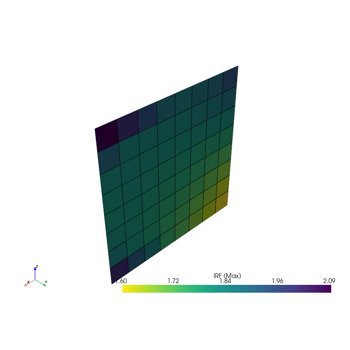
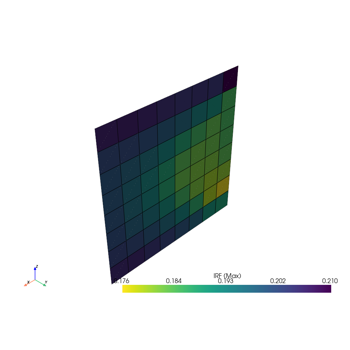
Minor tweaks to PyMechanical workflow examples (#712)
- Add note about why the PyMechanical shell workflow and PyMechanical to CDB workflow results are not exactly equal
- Remove TODO about material import; I think the current example code is ok
- Add some comments to Mechanical code
- Make values in CDB to PyMechanical example more reasonable

Checked manually that the results match with an equivalent workflow set up in WB.

Closes #703.

diff --git a/examples/workflows/03-pymechanical-shell-workflow.py b/examples/workflows/03-pymechanical-shell-workflow.py
@@ -105,6 +105,7 @@ mechanical.run_python_script(
     # This script runs in the Mechanical Python environment, which uses IronPython 2.7.
     textwrap.dedent(
         f"""\
+        # Import the geometry
         geometry_import = Model.GeometryImportGroup.AddGeometryImport()
 
         import_format = Ansys.Mechanical.DataModel.Enums.GeometryImportPreference.Format.Automatic
@@ -119,6 +120,8 @@ mechanical.run_python_script(
             import_preferences
         )
 
+        # The thickness will be overridden by the ACP model, but is required
+        # for the model to be valid.
         for body in Model.Geometry.GetChildren(
             Ansys.Mechanical.DataModel.Enums.DataModelObjectCategory.Body, True
         ):
@@ -138,7 +141,7 @@ pyacp.mechanical_integration_helpers.export_mesh_for_acp(mechanical=mechanical, 
 # definition file to output_path.
 
 composite_definitions_h5 = "ACPCompositeDefinitions.h5"
-matml_file = "materials.xml"  # TODO: load an example materials XML file instead of defining the materials in ACP
+matml_file = "materials.xml"
 
 
 model = acp.import_model(mesh_path, format="ansys:h5")

diff --git a/examples/workflows/06-cdb-to-pymechanical-workflow.py b/examples/workflows/06-cdb-to-pymechanical-workflow.py
@@ -91,6 +91,7 @@ input_file = example_helpers.get_example_file(
 
 
 model = acp.import_model(path=input_file, format="ansys:cdb")
+model.unit_system
 
 # %%
 # Visualize the loaded mesh.
@@ -130,7 +131,7 @@ ud_material = model.create_material(
     strain_limits=strain_limits,
 )
 
-fabric = model.create_fabric(name="UD", material=ud_material, thickness=0.1)
+fabric = model.create_fabric(name="UD", material=ud_material, thickness=1e-4)
 
 
 # %%
@@ -259,7 +260,7 @@ mechanical.run_python_script(
 
         force = analysis.AddForce()
         force.DefineBy = LoadDefineBy.Components
-        force.XComponent.Output.SetDiscreteValue(0, Quantity(1e6, "N"))
+        force.XComponent.Output.SetDiscreteValue(0, Quantity(100, "N"))
         force.Location = front_edge
 
         analysis.Solution.Solve(True)

diff --git a/examples/workflows/05-pymechanical-to-cdb-workflow.py b/examples/workflows/05-pymechanical-to-cdb-workflow.py
@@ -123,6 +123,8 @@ mechanical.run_python_script(
         ):
             body.Thickness = Quantity(1e-6, "m")
 
+        Model.Mesh.GenerateMesh()
+
         # Define named selections at the front and back edges
         front_edge = Model.AddNamedSelection()
         front_edge.Name = "Front Edge"
@@ -303,6 +305,11 @@ output_all_elements = composite_model.evaluate_failure_criteria(cfc)
 
 # %%
 # Query and plot the results.
+#
+# Note that the maximum IRF is different when compared to :ref:`pymechanical_shell_example`
+# because ACP sets the ``ERESX,NO`` option in the CDB file. This option disables interpolation
+# of the results from the integration point to the nodes.
+
 irf_field = output_all_elements.get_field(
     {"failure_label": pydpf_composites.constants.FailureOutput.FAILURE_VALUE}
 )

diff --git a/examples/workflows/04-pymechanical-solid-workflow.py b/examples/workflows/04-pymechanical-solid-workflow.py
@@ -180,7 +180,7 @@ pyacp.mechanical_integration_helpers.export_mesh_for_acp(
 # - Solid model composite definitions HDF5 file
 # - Solid model CDB file
 
-matml_file = "materials.xml"  # TODO: load an example materials XML file instead of defining the materials in ACP
+matml_file = "materials.xml"
 solid_model_cdb_file = "SolidModel.cdb"
 solid_model_composite_definitions_h5 = "SolidModel.h5"
 
